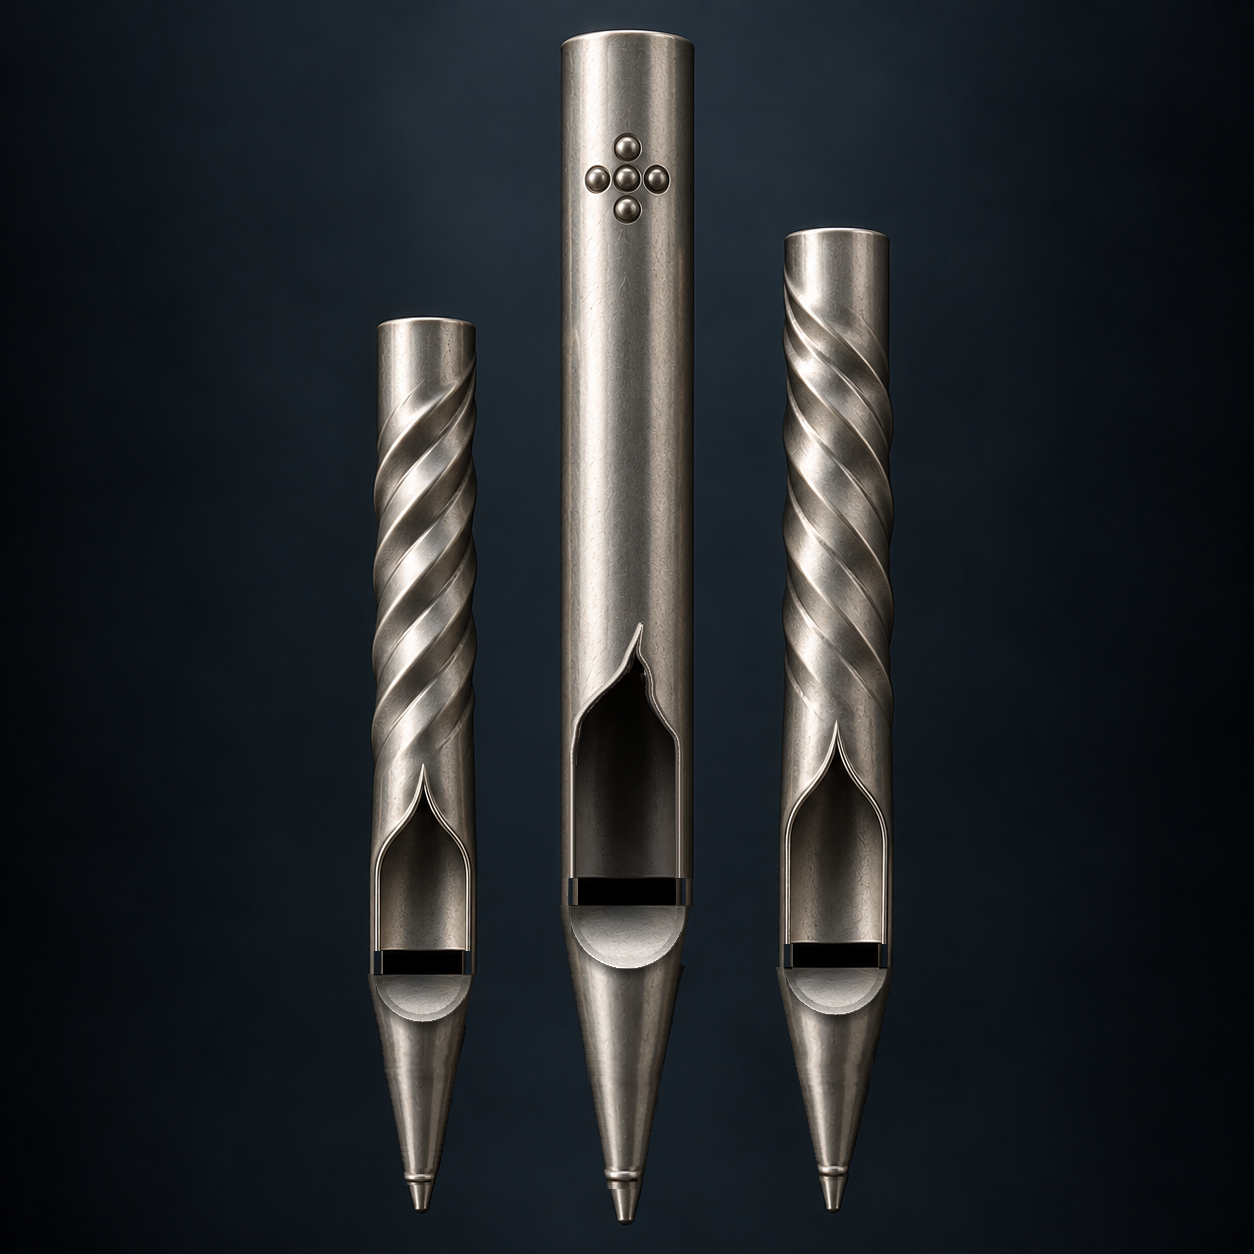
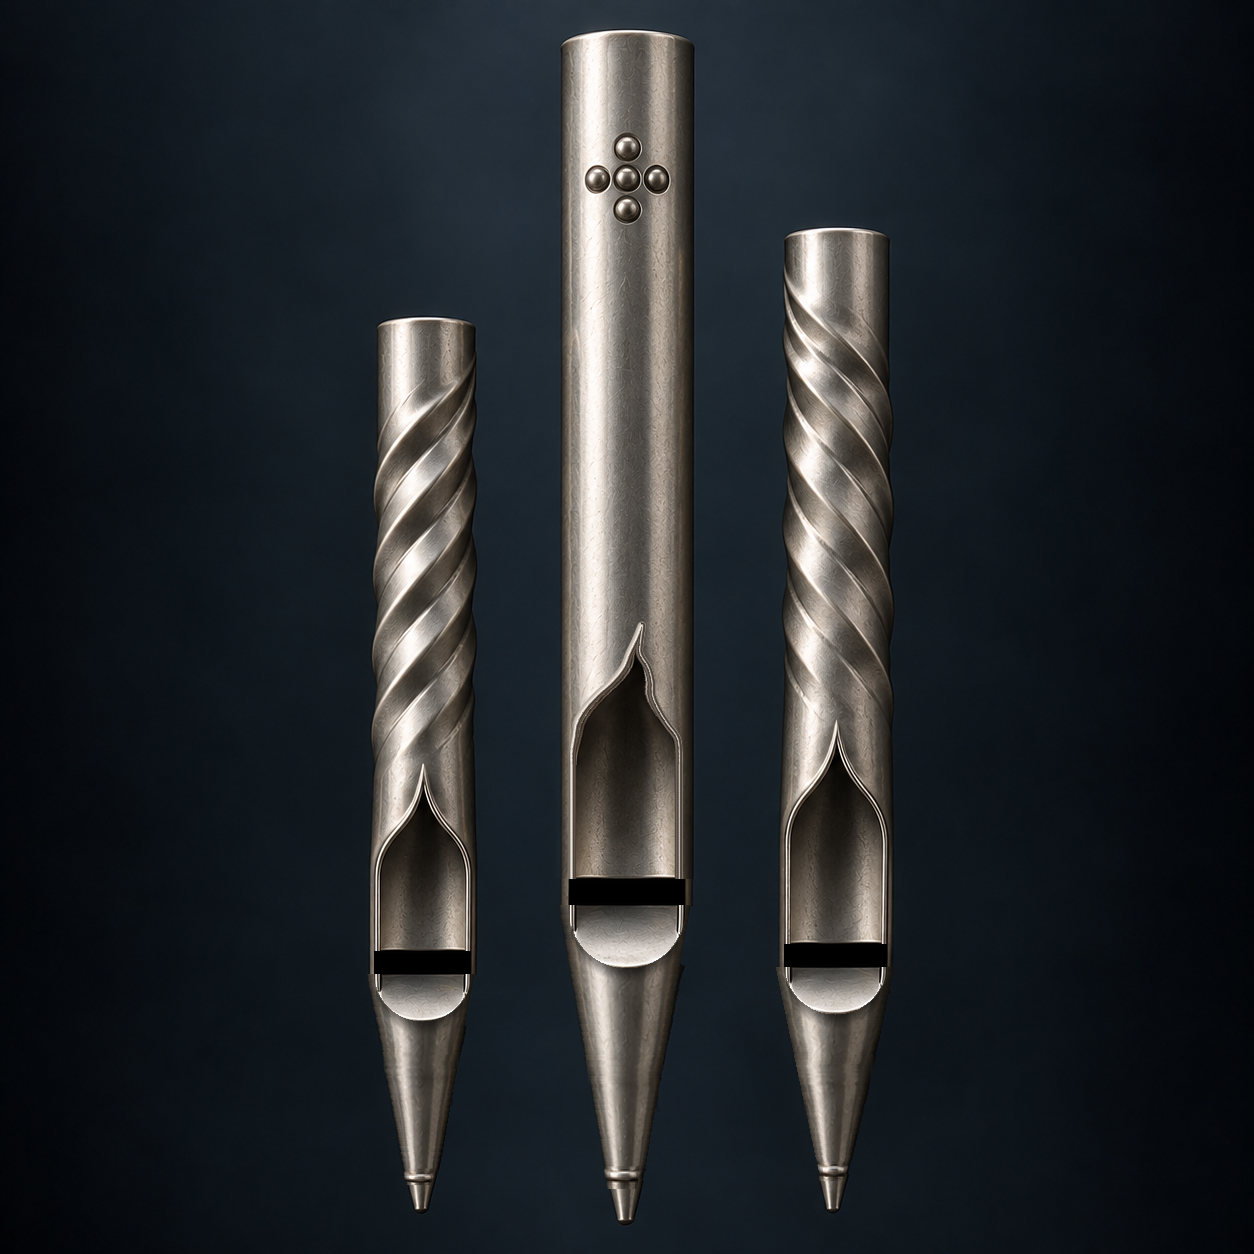
0.8.72: pictures - upper lips as rendered, the mouth slit dark across its width, the lower lip's own seam kept

diff --git a/site/index.html b/site/index.html
@@ -25,7 +25,7 @@
         <p class="intro">OrganSampler plays sampled pipe organs from plain folders of WAV files - one folder per stop, one recording per pipe - and turns any number of such folders into an organ of your own design.</p>
         <p>No organ definition file, no installer, no account. Load the folders, let the program propose the organ, shape it - divisions, stops, perspectives, audio routes, voicing - and save it as a configuration. Free software under the GNU GPL v3 for Windows, macOS and Linux.</p>
         <div class="actions"><a class="button primary" href="#download">Download <span aria-hidden="true">&darr;</span></a><a class="button secondary" href="#explore">What is inside</a></div>
-        <p class="availability"><span class="status-dot" aria-hidden="true"></span> Version <span data-version>0.8.71</span> &middot; Windows x64 &middot; macOS &middot; Linux x64 &middot; one portable executable</p>
+        <p class="availability"><span class="status-dot" aria-hidden="true"></span> Version <span data-version>0.8.72</span> &middot; Windows x64 &middot; macOS &middot; Linux x64 &middot; one portable executable</p>
       </div>
       <div class="hero-art">
         <img id="hero-pipes" src="assets/pipes.png" width="1250" height="1250" alt="Three metal organ pipes on a dark background" loading="eager">
@@ -87,7 +87,7 @@
           <a class="button primary" href="https://github.com/zurek-jiri/OrganSampler/releases" data-repo-suffix="/releases">Releases &amp; changelog &rarr;</a>
           <a class="text-link" href="https://github.com/zurek-jiri/OrganSampler/blob/main/OrganSampler/USER_MANUAL.md" data-repo-path="OrganSampler/USER_MANUAL.md">Read the user manual &#8599;</a>
           <a class="text-link" href="https://github.com/zurek-jiri/OrganSampler#building" data-repo-suffix="#building">Build from source &#8599;</a>
-          <p class="small">Version <span data-version>0.8.71</span>. Source, issues and configurations on <a href="https://github.com/zurek-jiri/OrganSampler" data-repo-suffix="">GitHub</a>.</p>
+          <p class="small">Version <span data-version>0.8.72</span>. Source, issues and configurations on <a href="https://github.com/zurek-jiri/OrganSampler" data-repo-suffix="">GitHub</a>.</p>
         </div>
       </div>
     </section>

diff --git a/OrganSampler/CHANGELOG.md b/OrganSampler/CHANGELOG.md
@@ -12,6 +12,15 @@ The version lives in one place per artefact and must be changed together:
 and the `JUCE_APP_VERSION` defines in `OrganSampler_App.vcxproj`. The window
 title shows the version. Released executables are named `OrganSampler_<version>.exe`.
 
+## [0.8.72] - 2026-10-14
+
+### Changed
+- Pictures: the upper lips exactly as rendered (their reflections back, the
+  darkening of 0.8.70/0.8.71 withdrawn); the mouth slit - the hole into the
+  pipe between the lips - is dark across its whole width, its ends included;
+  the lower lip is the rendered plate with its soldered seam, laid over the
+  smooth cone of the foot.
+
 ## [0.8.71] - 2026-10-14
 
 ### Changed

diff --git a/configurations/rural-organ/README.md b/configurations/rural-organ/README.md
@@ -49,7 +49,7 @@ Rural Organ/
 `Rural Organ.json` in this folder is the same portable configuration as in
 the package: saved with "Portable configuration (to share with others)", so
 it carries the organ only - no MIDI devices, no audio devices, nothing of
-the computer it was made on. Saved with OrganSampler 0.8.71.
+the computer it was made on. Saved with OrganSampler 0.8.72.
 
 - Organ: a Czech village organ, three divisions, recorded dry.
 - Samples: Sonus Paradisi, provided free of charge with OrganSampler to try
